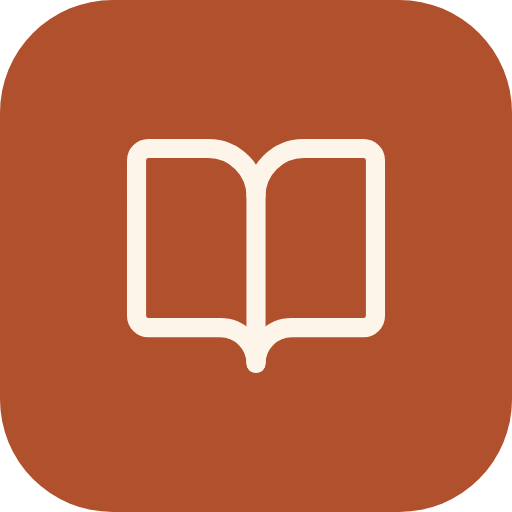
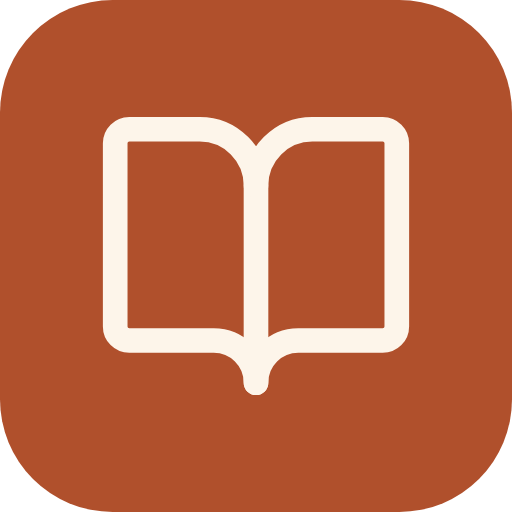
Större symbol i appikonen, inga kapitelikoner i Seriös
- Appikonen: boken tar större plats (maskerbar ikon 60 %, vanlig 66 %)
- Seriös: kapitelikoner döljs även i kapitelvyn, receptets kapitelrad, kapitelval och redigering
- Service worker 1.12.2

Claude-Session: https://claude.ai/code/session_017kFBF9M1hqTQzLXZqp1mtN

Changed region(s): [[0.1875, 0.2188, 0.8125, 0.7812]]

diff --git a/js/views/edit.js b/js/views/edit.js
@@ -49,6 +49,7 @@ export function render(root, [id], _ctx, { fix = false } = {}) {
   const prevVersion = !fix && version.basedOnVersionId ? state.versions.get(version.basedOnVersionId) : null;
   const prevLogs = prevVersion ? testlogsOf(prevVersion.id) : [];
 
+  const plain = document.documentElement.dataset.palette === 'serios'; // Seriös: inga ikoner
   const form = {
     title: recipe.title || '',
     chapterId: recipe.chapterId && state.chapters.has(recipe.chapterId) ? recipe.chapterId : '',
@@ -84,7 +85,7 @@ export function render(root, [id], _ctx, { fix = false } = {}) {
       <div class="field-row">
         <label class="field"><span class="field-label">Kapitel</span>
           <select id="f-chapter" class="input" data-f="chapterId">
-            ${chaptersSorted().map(c => `<option value="${c.id}" ${c.id === form.chapterId ? 'selected' : ''}>${esc((c.emoji ? c.emoji + ' ' : '') + c.name)}</option>`).join('')}
+            ${chaptersSorted().map(c => `<option value="${c.id}" ${c.id === form.chapterId ? 'selected' : ''}>${esc((c.emoji && !plain ? c.emoji + ' ' : '') + c.name)}</option>`).join('')}
             <option value="" ${!form.chapterId ? 'selected' : ''}>Utan kapitel</option>
           </select></label>
         <label class="field"><span class="field-label">Ger</span>

diff --git a/js/views/recipe.js b/js/views/recipe.js
@@ -62,7 +62,7 @@ export function render(root, [id, variantParam], ctx, { cook = false } = {}) {
       <article class="recipe${dev ? ' is-dev' : ''}${cook ? ' cook' : ''}">
         <header class="recipe-head">
           <a class="kicker" href="#/kapitel/${ch ? ch.id : NO_CHAPTER}" data-link style="--c: ${colorVar(ch)}">
-            ${ch ? `${esc(ch.emoji || '')} ${esc(ch.name)}${groupOf(recipe) ? ` · ${esc(groupOf(recipe).name)}` : ''}` : 'Utan kapitel'}</a>
+            ${ch ? `${ch.emoji ? `<span class="kicker-emoji">${esc(ch.emoji)} </span>` : ''}${esc(ch.name)}${groupOf(recipe) ? ` · ${esc(groupOf(recipe).name)}` : ''}` : 'Utan kapitel'}</a>
           ${dev ? `<span class="badge">${icon('flask-conical')}Under utveckling · v${version.number}</span>` : ''}
           <h1 class="recipe-title">${esc(displayTitle(recipe))}</h1>
           ${b.variants.length > 1 ? `<div class="variant-chips" role="tablist" aria-label="Varianter">${b.variants.map(v => `

diff --git a/css/themes.css b/css/themes.css
@@ -282,6 +282,6 @@
 [data-palette="serios"] :is(.list-count, .archive-date, .devrow-meta, .shop-count) { font-family: var(--font-mono); }
 
 /* Seriös: startsidorna helt utan symboler – bara text. */
-[data-palette="serios"] :is(.chapter .emoji, .section-title .inline-icon, .rrow .dot, .rrow .badge .icon, .chapter.add .icon, .list-card .pin-icon, .list-card.add .icon, .text-btn .icon, .notice > .icon, .recent-chev) { display: none; }
+[data-palette="serios"] :is(.chapter .emoji, .page-emoji, .kicker-emoji, .menu-emoji, .emoji-field, .menu-sub > .icon:first-child, .section-title .inline-icon, .rrow .dot, .rrow .badge .icon, .chapter.add .icon, .list-card .pin-icon, .list-card.add .icon, .text-btn .icon, .notice > .icon, .recent-chev) { display: none; }
 [data-palette="serios"] .chapter { box-shadow: none; }
 [data-palette="herbarium"] .li-amt { font-weight: 800; }

diff --git a/js/components.js b/js/components.js
@@ -65,7 +65,7 @@ export function chapterSheet(ch = null) {
     body: `
       <label class="field"><span class="field-label">Namn</span>
         <input id="ch-name" class="input" type="text" maxlength="60" value="${esc(cur.name)}" placeholder="t.ex. Bröd" autocomplete="off" enterkeyhint="done"></label>
-      <div class="field"><span class="field-label">Ikon</span>
+      <div class="field emoji-field"><span class="field-label">Ikon</span>
         <div class="emoji-grid" role="radiogroup" aria-label="Ikon">
           <button type="button" class="emoji-opt none" data-emoji="" aria-label="Ingen ikon">–</button>
           ${EMOJIS.map(e => `<button type="button" class="emoji-opt" data-emoji="${e}">${e}</button>`).join('')}

diff --git a/sw.js b/sw.js
@@ -1,6 +1,6 @@
 // Service worker: gör att appen fungerar offline.
 // HÖJ VERSIONEN vid varje release, annars når uppdateringen inte telefonen.
-const VERSION = '1.12.1';
+const VERSION = '1.12.2';
 const CACHE = `receptbok-v${VERSION}`;
 
 const FILES = [
